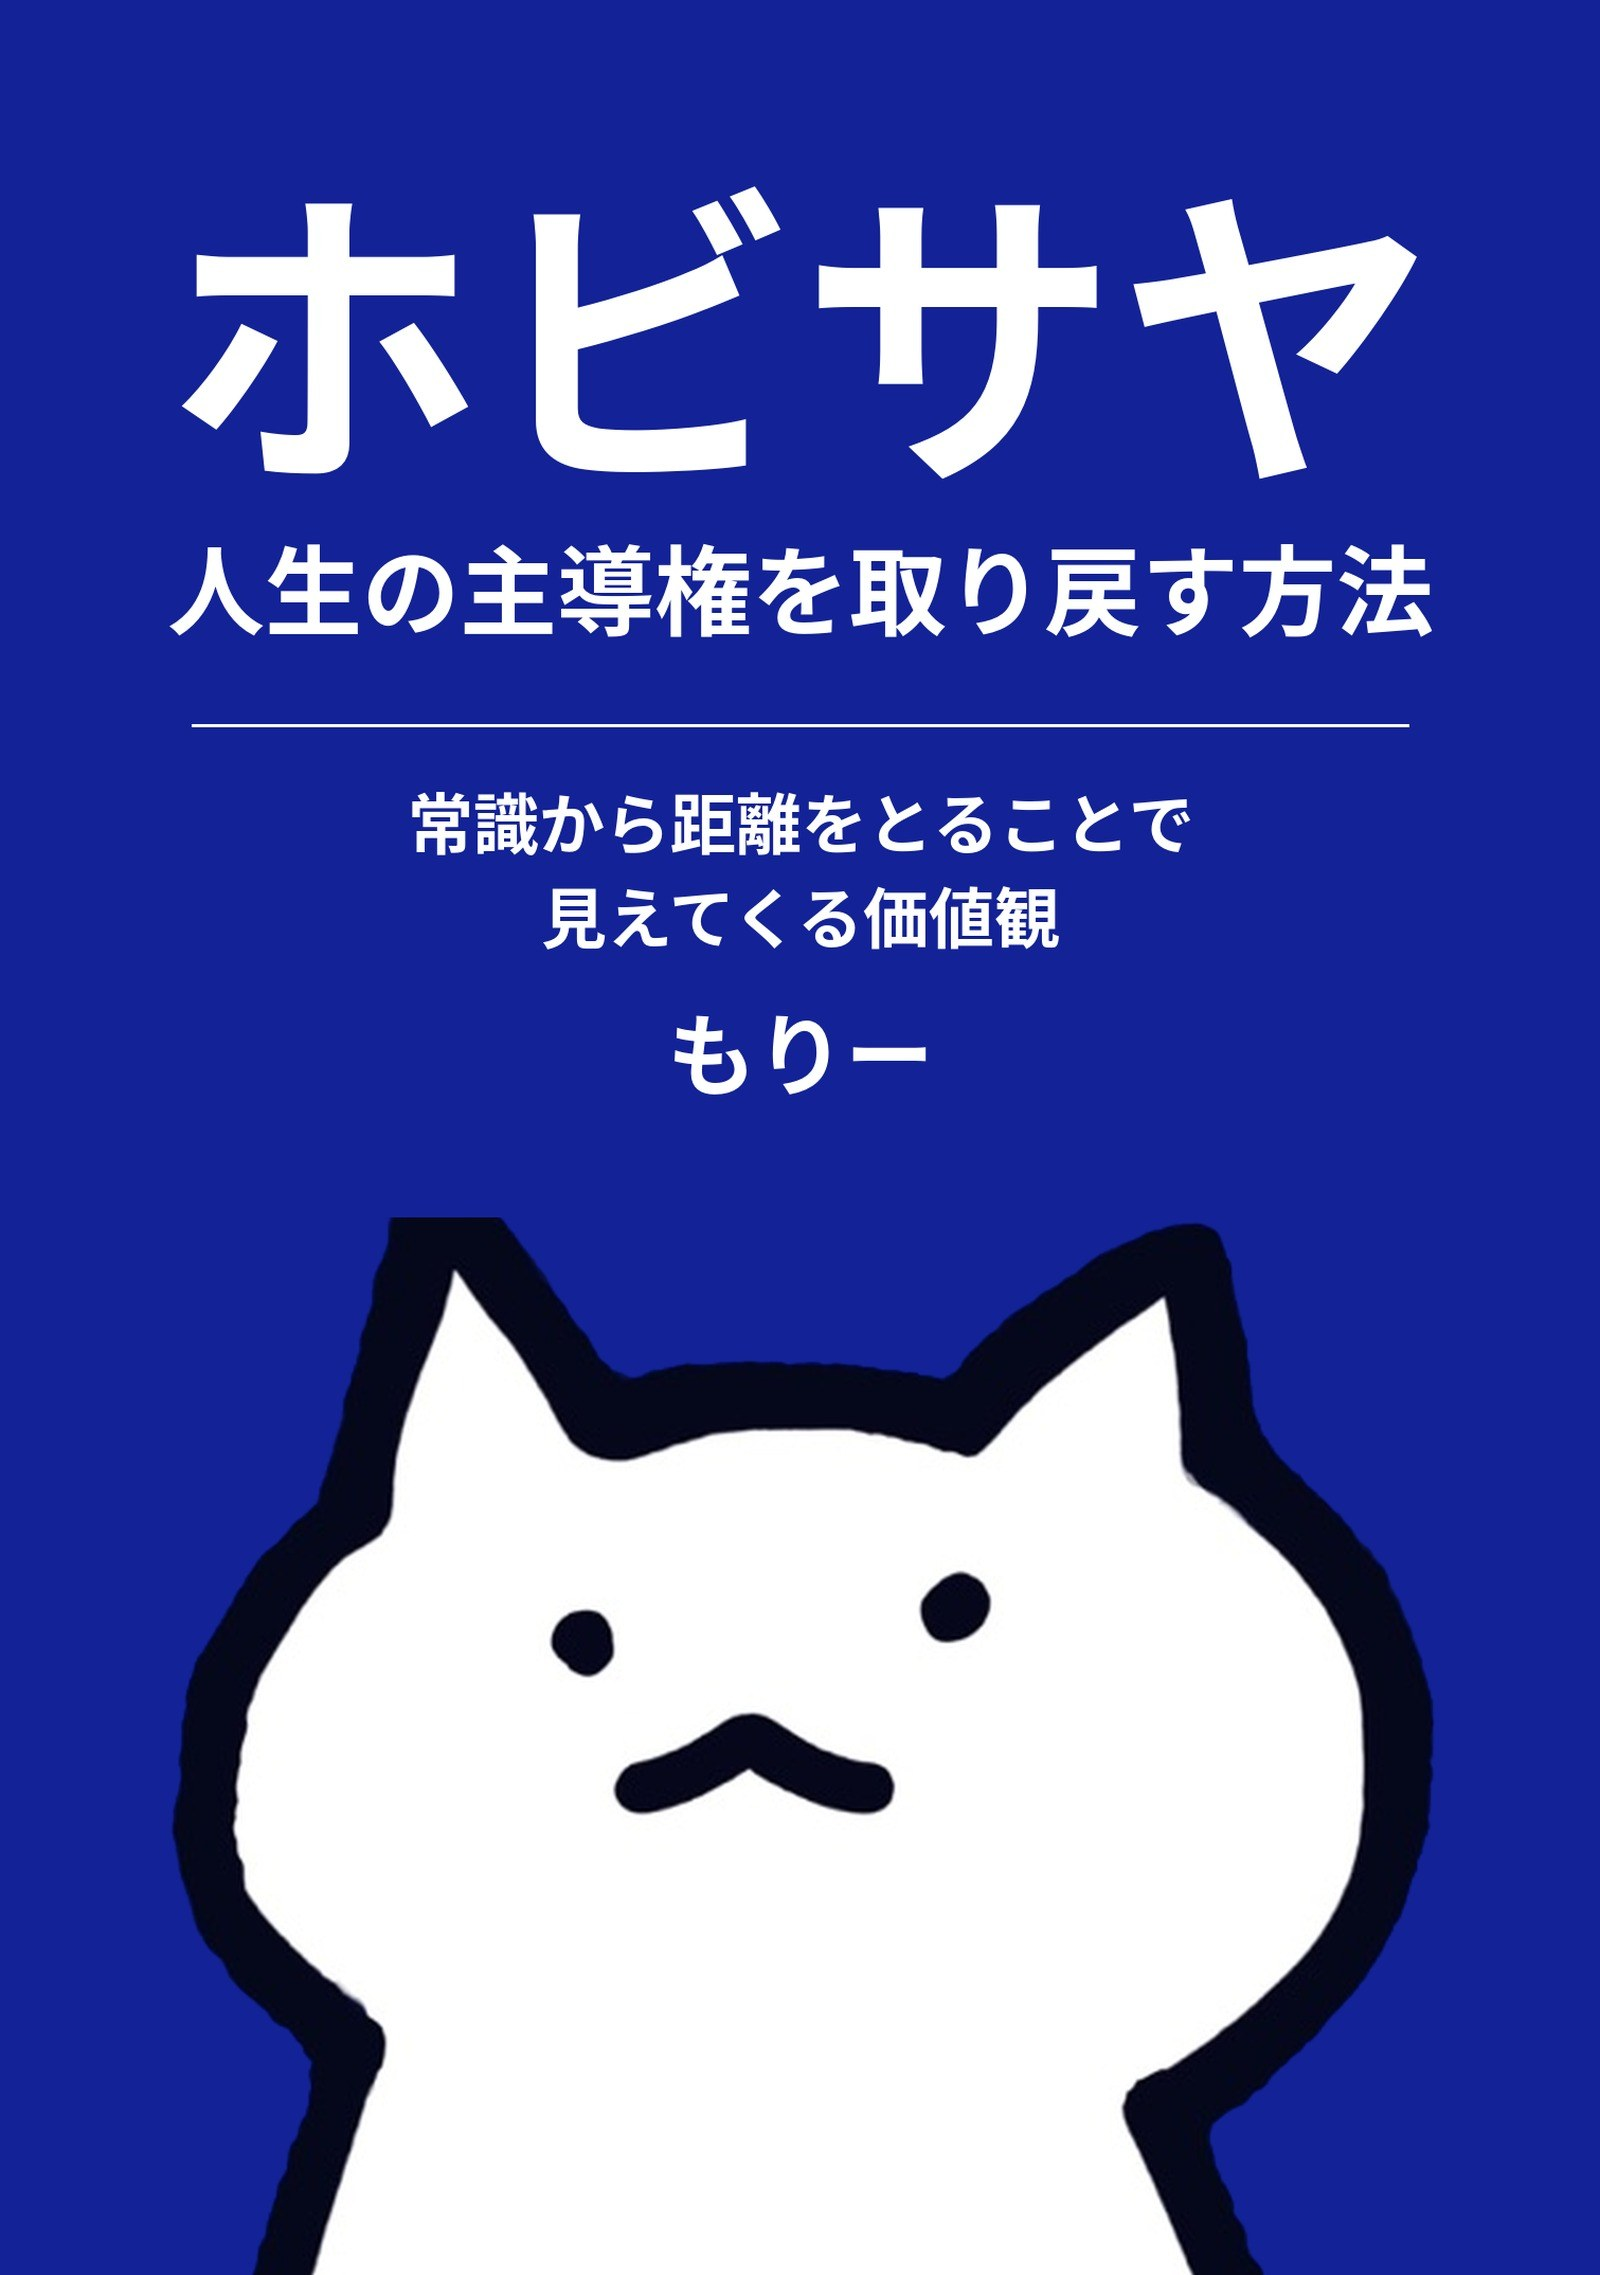
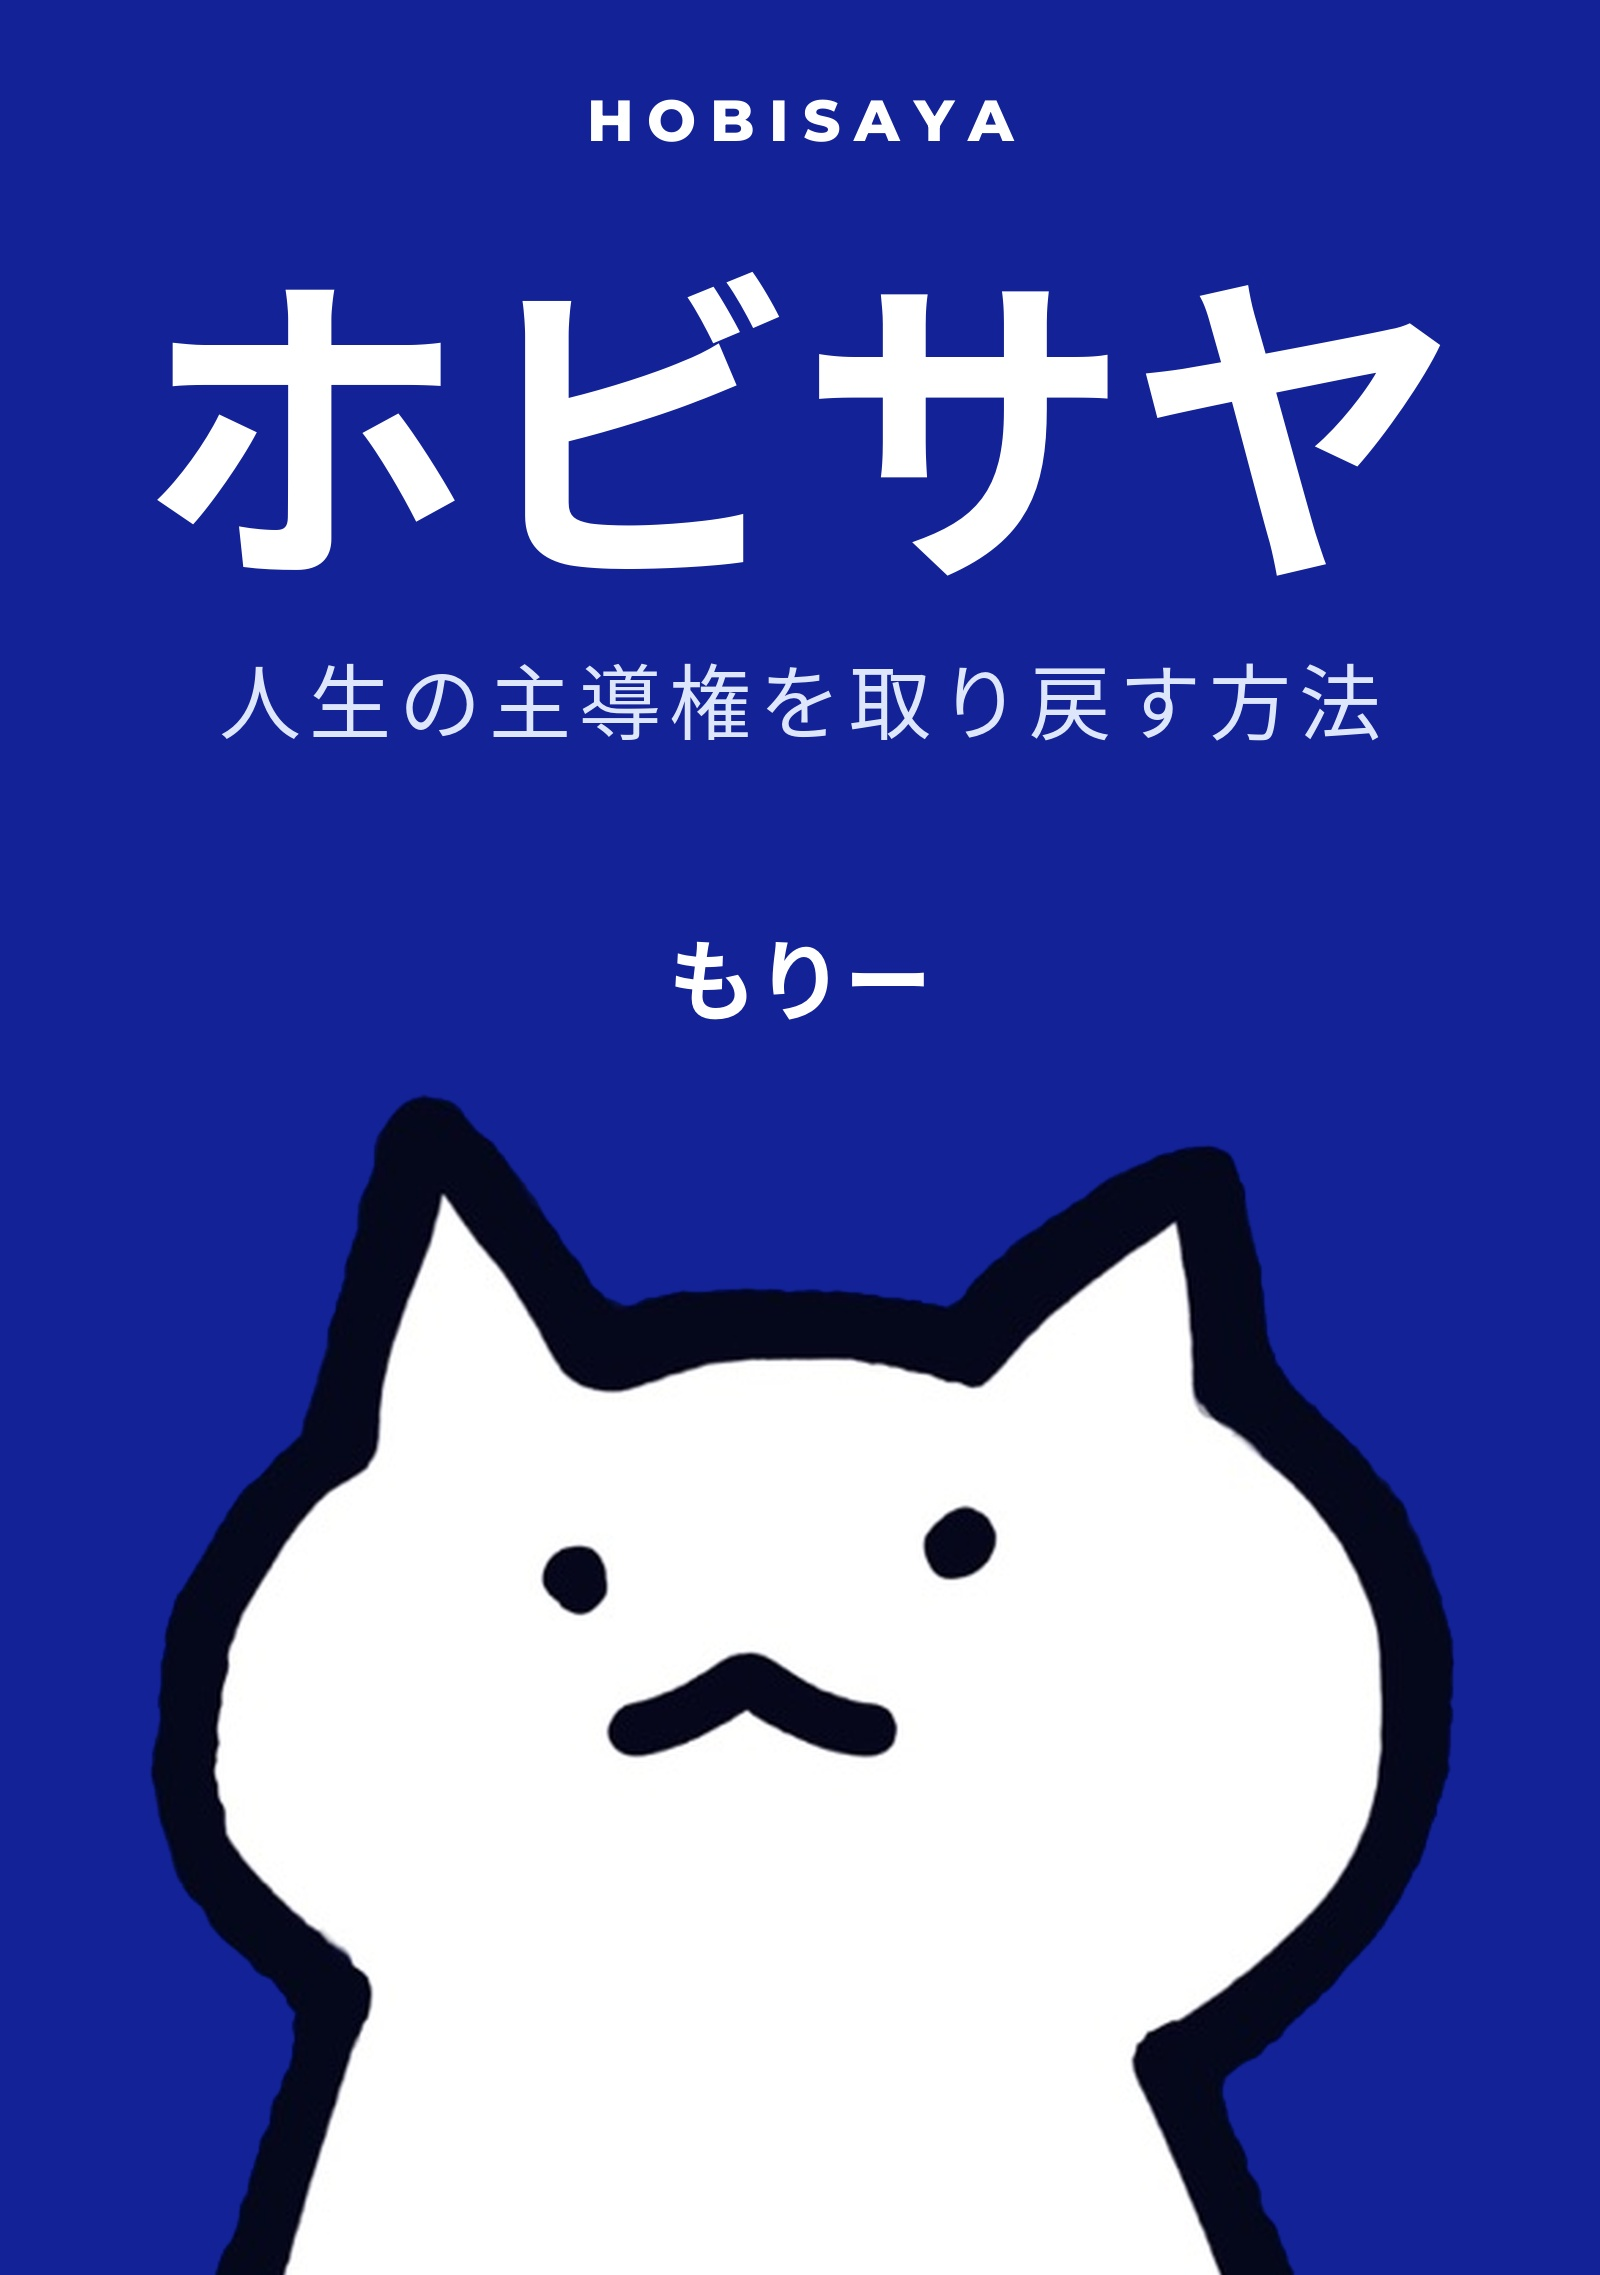
Add files via upload

Changed region(s): [[0.0938, 0.0312, 0.9062, 0.4993], [0.0938, 0.4681, 0.9062, 1.0], [0.6875, 0.8114, 0.875, 1.0]]

diff --git a/index.html b/index.html
@@ -45,7 +45,7 @@
   "ホビサヤ もりー",
   "Molly"
  ],
- "jobTitle": "旅するポッドキャスター／著者",
+ "jobTitle": "旅する哲学屋／著者",
  "description": "もりーの公式ホームページ。世界のありのままを配信するRANTAUと、既存の価値観に疑問を呈するHOBISAYAという活動をしています。話せるテーマ、著書、出演・登壇のご依頼はこちら。",
  "url": "https://yuichiro-morimoto.github.io/",
  "image": "https://yuichiro-morimoto.github.io/profile.jpg",
@@ -459,7 +459,7 @@ footer small{font-size:13.5px}
   <div class="wrap">
     <div class="kicker">ポッドキャスター</div>
     <h1>もりー <span class="by">/ Molly</span></h1>
-    <div class="role">旅するポッドキャスター</div>
+    <div class="role">旅する哲学屋</div>
     <div class="cta-row">
       <a class="btn btn-primary" href="#contact">出演・登壇のご依頼</a>
       <a class="btn btn-ghost" href="#themes">話せるテーマを見る</a>
@@ -483,7 +483,7 @@ footer small{font-size:13.5px}
     <h2 class="sec-title">プロフィール</h2>
     <img class="profile-photo" src="/profile.jpg" alt="遺跡に立つもりー">
     <div class="profile-grid">
-      <p>旅するポッドキャスターとして、「HOBISAYA」と「RANTAU」、2つの活動をしています</p>
+      <p>旅する哲学屋として、「HOBISAYA」と「RANTAU」、2つの活動をしています</p>
       <p>「HOBISAYA」は、既存の価値観に疑問を呈し、それとは異なる物事の見方を示すことで、他人の物差しから降り、自分の選択で生きるための考え方を探る活動です</p>
       <p>「RANTAU」は、世界を訪問し、その土地の人の暮らしや文化をありのまま発信することで、見る人の固定観念に揺らぎを与える呼び水になることを目指す活動です</p>
     </div>
@@ -492,7 +492,6 @@ footer small{font-size:13.5px}
       <dl class="career-list">
         <div class="career-row"><dt>1994</dt><dd>日本生まれ</dd></div>
         <div class="career-row"><dt>2000</dt><dd>台湾の日本人学校で過ごす</dd></div>
-        <div class="career-row"><dt>2006</dt><dd>クルマに出会い、カーデザイナーを志す</dd></div>
         <div class="career-row"><dt>2014</dt><dd>千葉大学工学部デザイン学科入学</dd></div>
         <div class="career-row"><dt>2016</dt><dd>武蔵野美術大学造形学部基礎デザイン学科編入</dd></div>
         <div class="career-row"><dt>2018</dt><dd>フリーランスデザイナー（デザインファームeau→デザインギルドNEWPLAIN）</dd></div>
